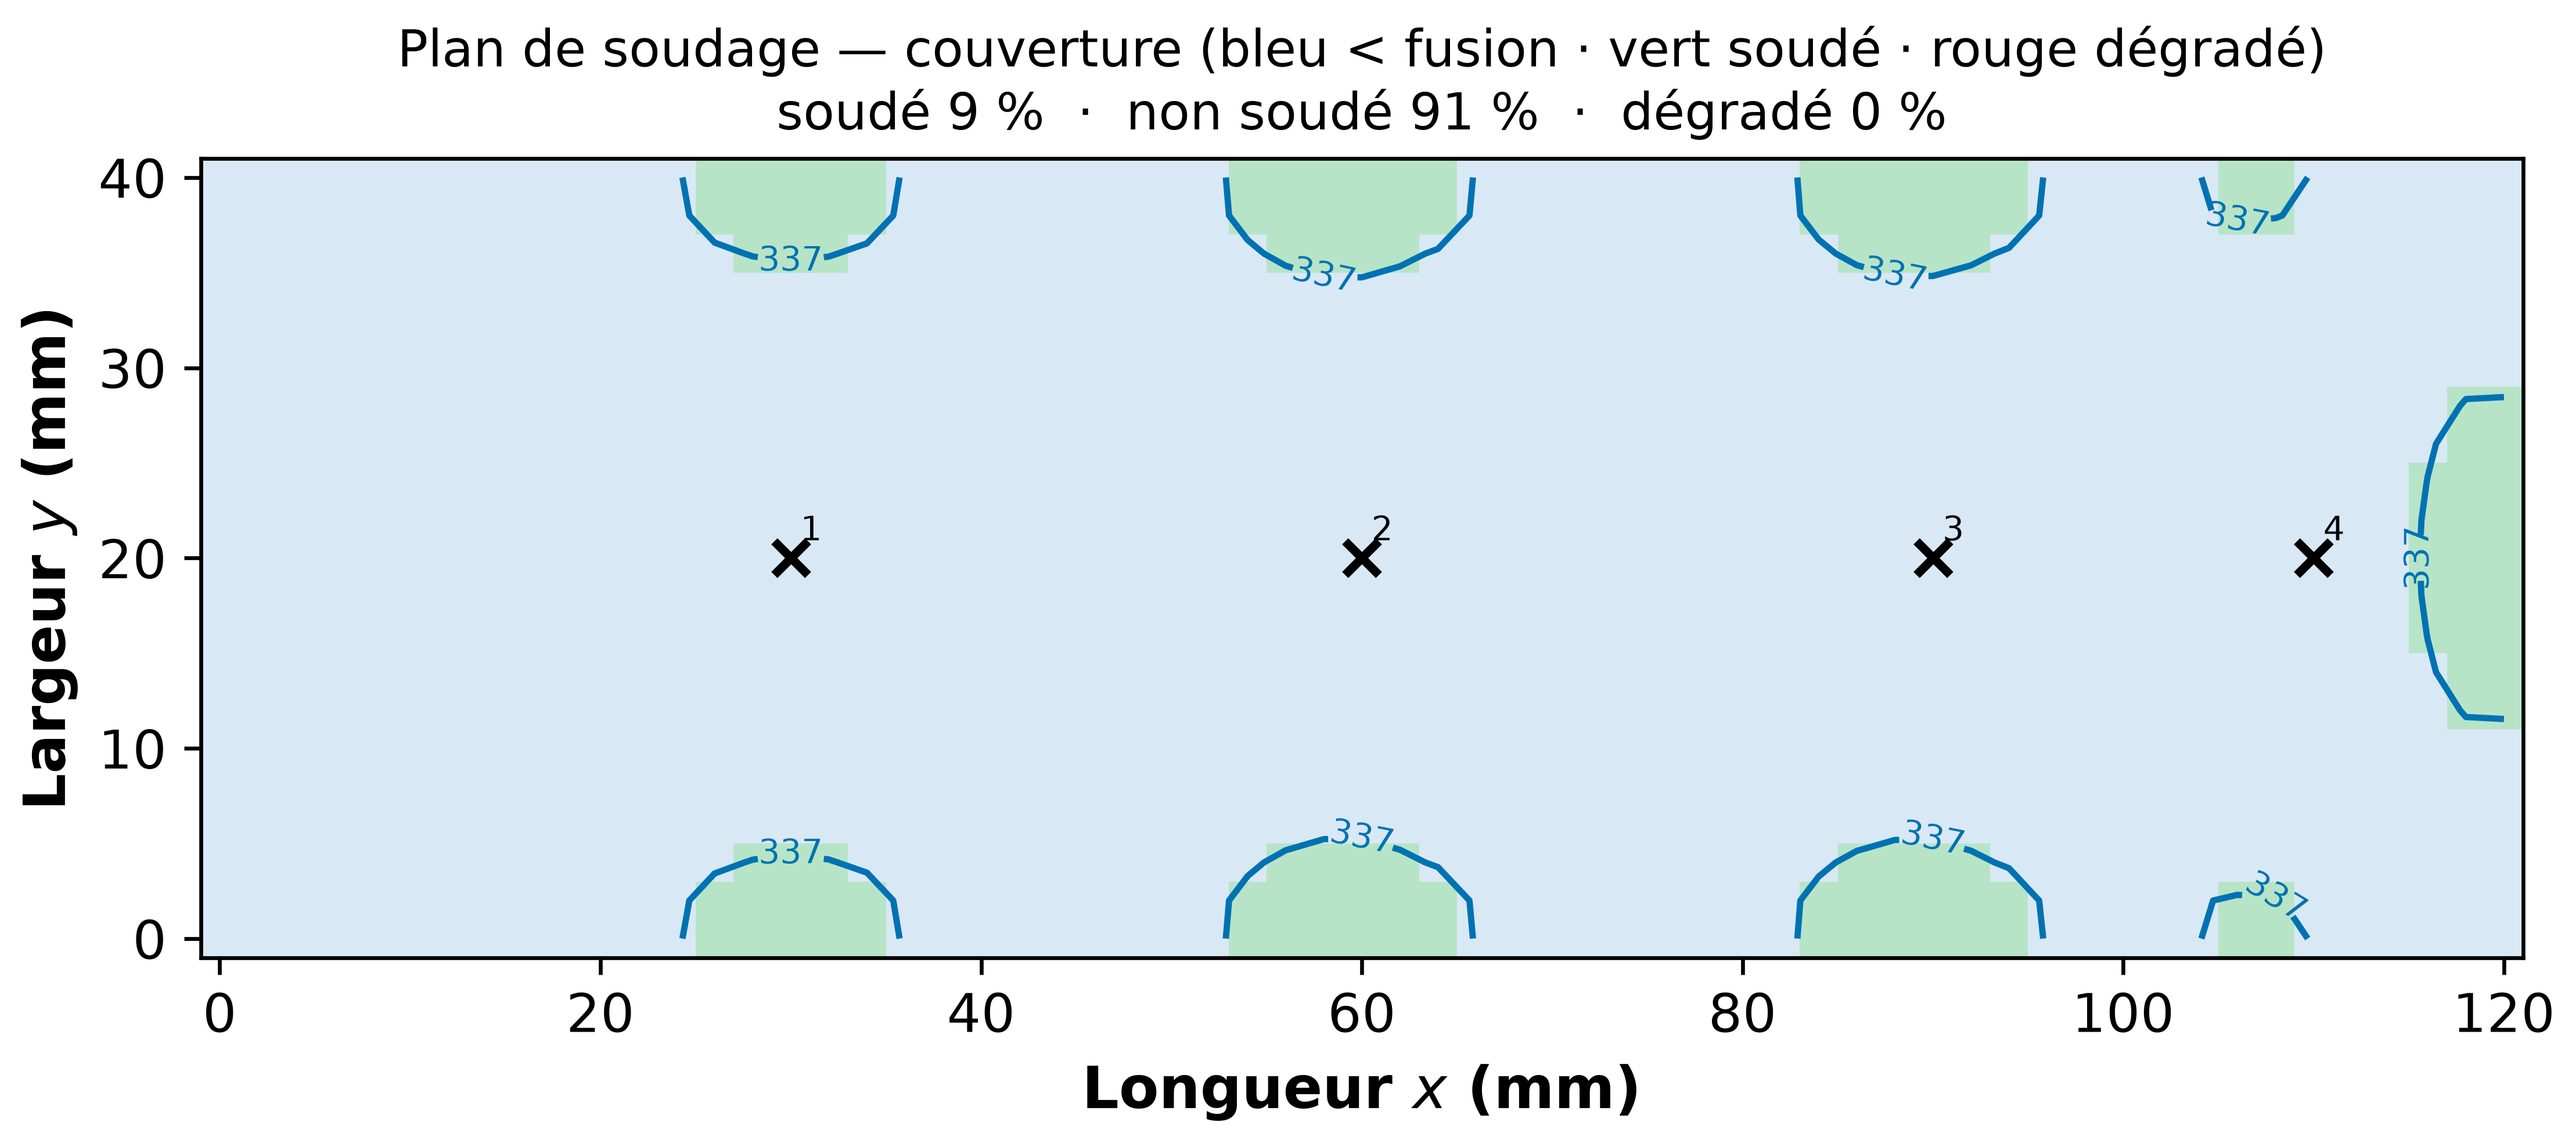
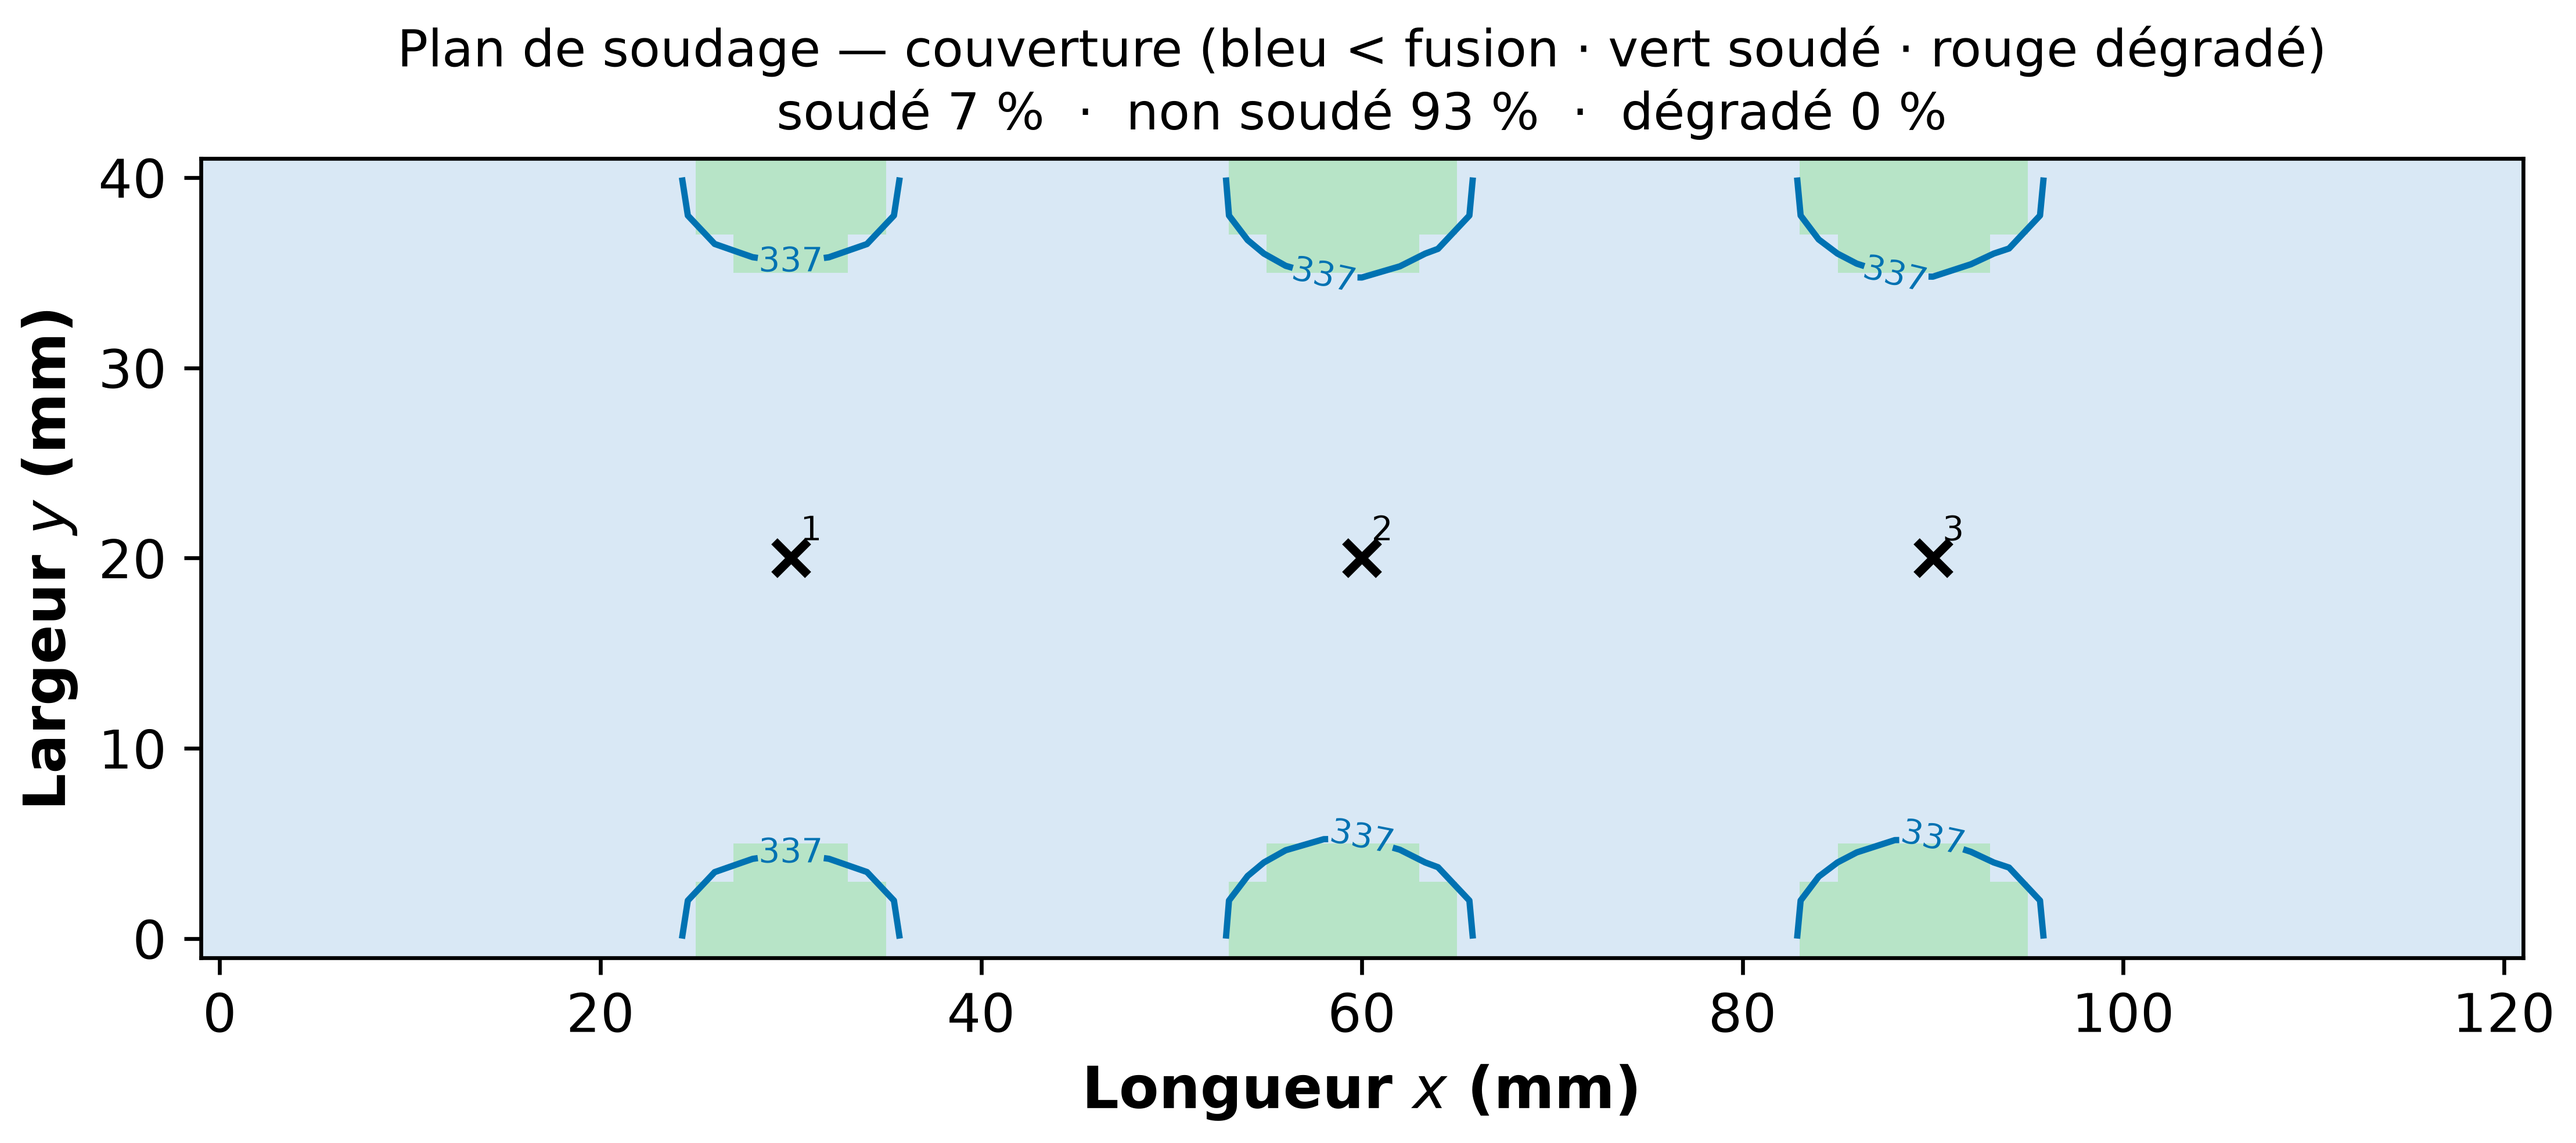
planificateur : rendre l'hypothese explicite, et separer theta* du courant
1. planifier_soudage.py declarait implicitement son hypothese de MFC reduit.
   FAMILLE et H_BORD_X0 sont maintenant des constantes nommees en tete, avec la
   liste des quatre hypotheses et ce que chacune affirme. Le texte du verdict
   promettait « un MFC vraiment localisant serait necessaire » : cette question
   est desormais repondue et le texte le dit — la famille ou le flux se
   reconcentre EST ce MFC localisant, elle fait retenir le MFC reduit, et elle
   n'atteint que 45 % de soude en brulant un tiers de la plaque.

2. La matrice melangeait deux changements : le theta* et l'ajout de 250 A. Une
   cellule les separe. Resultat : le theta* ne change RIEN ici (6,1 / 7,0 % dans
   les deux cas) — attendu, h_bord_x0 n'agit que sur le chant x=0 alors que la
   couverture se joue sur les lobes du M, donc sur les chants en y. Tout l'ecart
   7,0 -> 10,6 % vient du courant ajoute. La correction de theta* etait
   necessaire par coherence, pas parce qu'elle deplacait le verdict ; l'ecrire
   evite d'attribuer a l'un ce qui vient de l'autre.

La figure du planificateur est regeneree deliberement (elle avait ete reecrite
par un run exploratoire en debut de session).

diff --git a/code/scripts/planifier_soudage.py b/code/scripts/planifier_soudage.py
@@ -36,6 +36,15 @@ COURANTS = [200.0, 235.0]
 # Largeurs de MFC physiques (#39) : labo 55 mm (None) et réduit commandé 31,75 mm.
 MFC_LONGUEURS = [None, 0.03175]
 DUREE = 20.0
+# Hypothèse de MFC réduit — il y en a QUATRE, qui diffèrent par une affirmation
+# physique sur le flux qui n'est plus sous le bloc (cf. empreinte.py et
+# biblio/modele/plan_passes_familles.md). "tronquer" = le flux disparaît, celle
+# des plans d'origine (#31/#37/#39) et la plus défavorable des quatre. Le
+# verdict ci-dessous a été vérifié identique dans les quatre.
+FAMILLE = "tronquer"
+# θ* : None = valeur de la config (h_bord_x0 canonique 125 depuis le
+# 2026-09-06). Passer 250.0 pour reproduire les plans antérieurs à cette date.
+H_BORD_X0 = None
 
 
 def main():
@@ -45,7 +54,8 @@ def main():
           f"({len(X_CS)}×{len(Y_CS)}×{len(COURANTS)}×{len(MFC_LONGUEURS)} = "
           f"{n_cand} passes candidates)…")
     grille, lib = bibliotheque(cfg, X_CS, Y_CS, COURANTS, DUREE,
-                               mfc_longueurs=MFC_LONGUEURS)
+                               mfc_longueurs=MFC_LONGUEURS, famille=FAMILLE,
+                               h_bord_x0=H_BORD_X0)
     passes, Tc, m = planifier(lib, fusion=FUSION, degrad=DEGRAD)
 
     print(f"\nPlan glouton : {len(passes)} passe(s) — soudé {m['pct_soude']:.1f} %, "
@@ -65,7 +75,8 @@ def main():
 
     if passes_params:
         print("\nVérification séquentielle (chaleur résiduelle incluse)…")
-        _, T_seq = verifier_sequentiel(cfg, passes_params)
+        _, T_seq = verifier_sequentiel(cfg, passes_params, famille=FAMILLE,
+                                       h_bord_x0=H_BORD_X0)
         m_seq = metriques(T_seq, fusion=FUSION, degrad=DEGRAD)
         print(f"  séquentiel : soudé {m_seq['pct_soude']:.1f} %, "
               f"non soudé {m_seq['pct_non_soude']:.1f} %, dégradé {m_seq['pct_degrade']:.1f} %")
@@ -79,10 +90,16 @@ def main():
     if not uniforme:
         print("  Seules de fines bandes de bord (lobes du M) se soudent sans dégrader.")
         if not utilise_mfc_reduit:
-            print("  Le MFC réduit (31,75 mm, masque 1er ordre) n'a PAS été retenu : il coupe "
-                  "les lobes de bord sans réchauffer le centre (creux du M) -> n'améliore pas "
-                  "la couverture. Un MFC vraiment localisant (non capturé par le masque dur) "
-                  "serait nécessaire. Cf. spec §Risque de faisabilité + issue #39.")
+            print("  Le MFC réduit (31,75 mm) n'a PAS été retenu : il coupe les lobes de bord "
+                  "sans réchauffer le centre (creux du M) -> n'améliore pas la couverture.")
+        print("  Ce verdict ne dépend PAS de l'hypothèse de MFC réduit : il a été rejoué dans "
+              "les quatre (flux qui disparaît / se reconcentre / ne se reconcentre pas, deux "
+              "variantes) et reste NON dans toutes. La seule qui fasse retenir le MFC réduit "
+              "est celle où le flux se reconcentre, et elle n'atteint que 45 % de soudé en "
+              "brûlant un tiers de la plaque. Le centre de la largeur est la ligne nodale de "
+              "la dissipation : il ne chauffe que par conduction latérale, et aucune géométrie "
+              "de concentrateur ne change cela. Cf. biblio/modele/plan_passes_familles.md, "
+              "issue #39.")
 
     _tracer(grille, T_seq, passes_params, m_seq)
 

diff --git a/code/scripts/gen/gen_plan_passes_familles.py b/code/scripts/gen/gen_plan_passes_familles.py
@@ -133,6 +133,14 @@ def main() -> None:
           f"{'REPRODUIT' if abs(ctrl['seq']['pct_soude'] - 7.0) < 1.0 else 'ÉCART'}",
           flush=True)
 
+    # Deux choses changent entre le contrôle et la matrice : le θ* et la grille
+    # de courants. Cette cellule les sépare, sans quoi on attribuerait à l'un ce
+    # qui vient de l'autre.
+    print("θ* canonique (125), grille de courants HISTORIQUE…", flush=True)
+    theta = cellule(cfg, "tronquer", COURANTS_HIST, None)
+    print(f"  glouton {theta['glouton']['pct_soude']:.1f} %  "
+          f"séquentiel {theta['seq']['pct_soude']:.1f} %", flush=True)
+
     resultats = {}
     for famille in ("tronquer", "conserver", "image_observation", "image_source"):
         print(f"θ* canonique (125) · {famille} · courants {COURANTS_ETENDUS}…",
@@ -178,6 +186,22 @@ def main() -> None:
         f"|---|---|---|",
         f"| soudé, plan glouton | 6.1 % | {ctrl['glouton']['pct_soude']:.1f} % |",
         f"| soudé, séquentiel | 7.0 % | {ctrl['seq']['pct_soude']:.1f} % |",
+        "",
+        "Deux choses séparent ce contrôle de la matrice qui suit : le θ* et la "
+        "grille de courants. Les découpler évite d'attribuer à l'un ce qui vient "
+        "de l'autre.",
+        "",
+        "| grille de courants | h_bord_x0 | soudé, séquentiel |",
+        "|---|---|---|",
+        f"| {{200, 235}} A | 250 (historique) | {ctrl['seq']['pct_soude']:.1f} % |",
+        f"| {{200, 235}} A | 125 (canonique) | {theta['seq']['pct_soude']:.1f} % |",
+        "",
+        "**Le θ* ne bouge rien ici**, et c'est attendu : `h_bord_x0` n'agit que "
+        "sur le chant `x = 0`, alors que la couverture se joue sur les lobes du "
+        "M, c'est-à-dire sur les chants en `y`. Tout l'écart avec la matrice "
+        "ci-dessous vient donc de l'ajout de 250 A à la grille — la correction "
+        "de θ* était nécessaire par cohérence, pas parce qu'elle changeait le "
+        "verdict.",
         "",
         "## Les quatre hypothèses, à θ* canonique",
         "",

diff --git a/biblio/modele/plan_passes_familles.md b/biblio/modele/plan_passes_familles.md
@@ -11,6 +11,15 @@ Avant toute comparaison, la configuration historique est rejouée : troncature d
 | soudé, plan glouton | 6.1 % | 6.1 % |
 | soudé, séquentiel | 7.0 % | 7.0 % |
 
+Deux choses séparent ce contrôle de la matrice qui suit : le θ* et la grille de courants. Les découpler évite d'attribuer à l'un ce qui vient de l'autre.
+
+| grille de courants | h_bord_x0 | soudé, séquentiel |
+|---|---|---|
+| {200, 235} A | 250 (historique) | 7.0 % |
+| {200, 235} A | 125 (canonique) | 7.0 % |
+
+**Le θ* ne bouge rien ici**, et c'est attendu : `h_bord_x0` n'agit que sur le chant `x = 0`, alors que la couverture se joue sur les lobes du M, c'est-à-dire sur les chants en `y`. Tout l'écart avec la matrice ci-dessous vient donc de l'ajout de 250 A à la grille — la correction de θ* était nécessaire par cohérence, pas parce qu'elle changeait le verdict.
+
 ## Les quatre hypothèses, à θ* canonique
 
 `h_bord_x0 = 125` (canonique depuis le 2026-09-06) et courants {200, 235, 250} A — la grille est ÉLARGIE vers le haut, donc le planificateur ne peut qu'y faire mieux.
